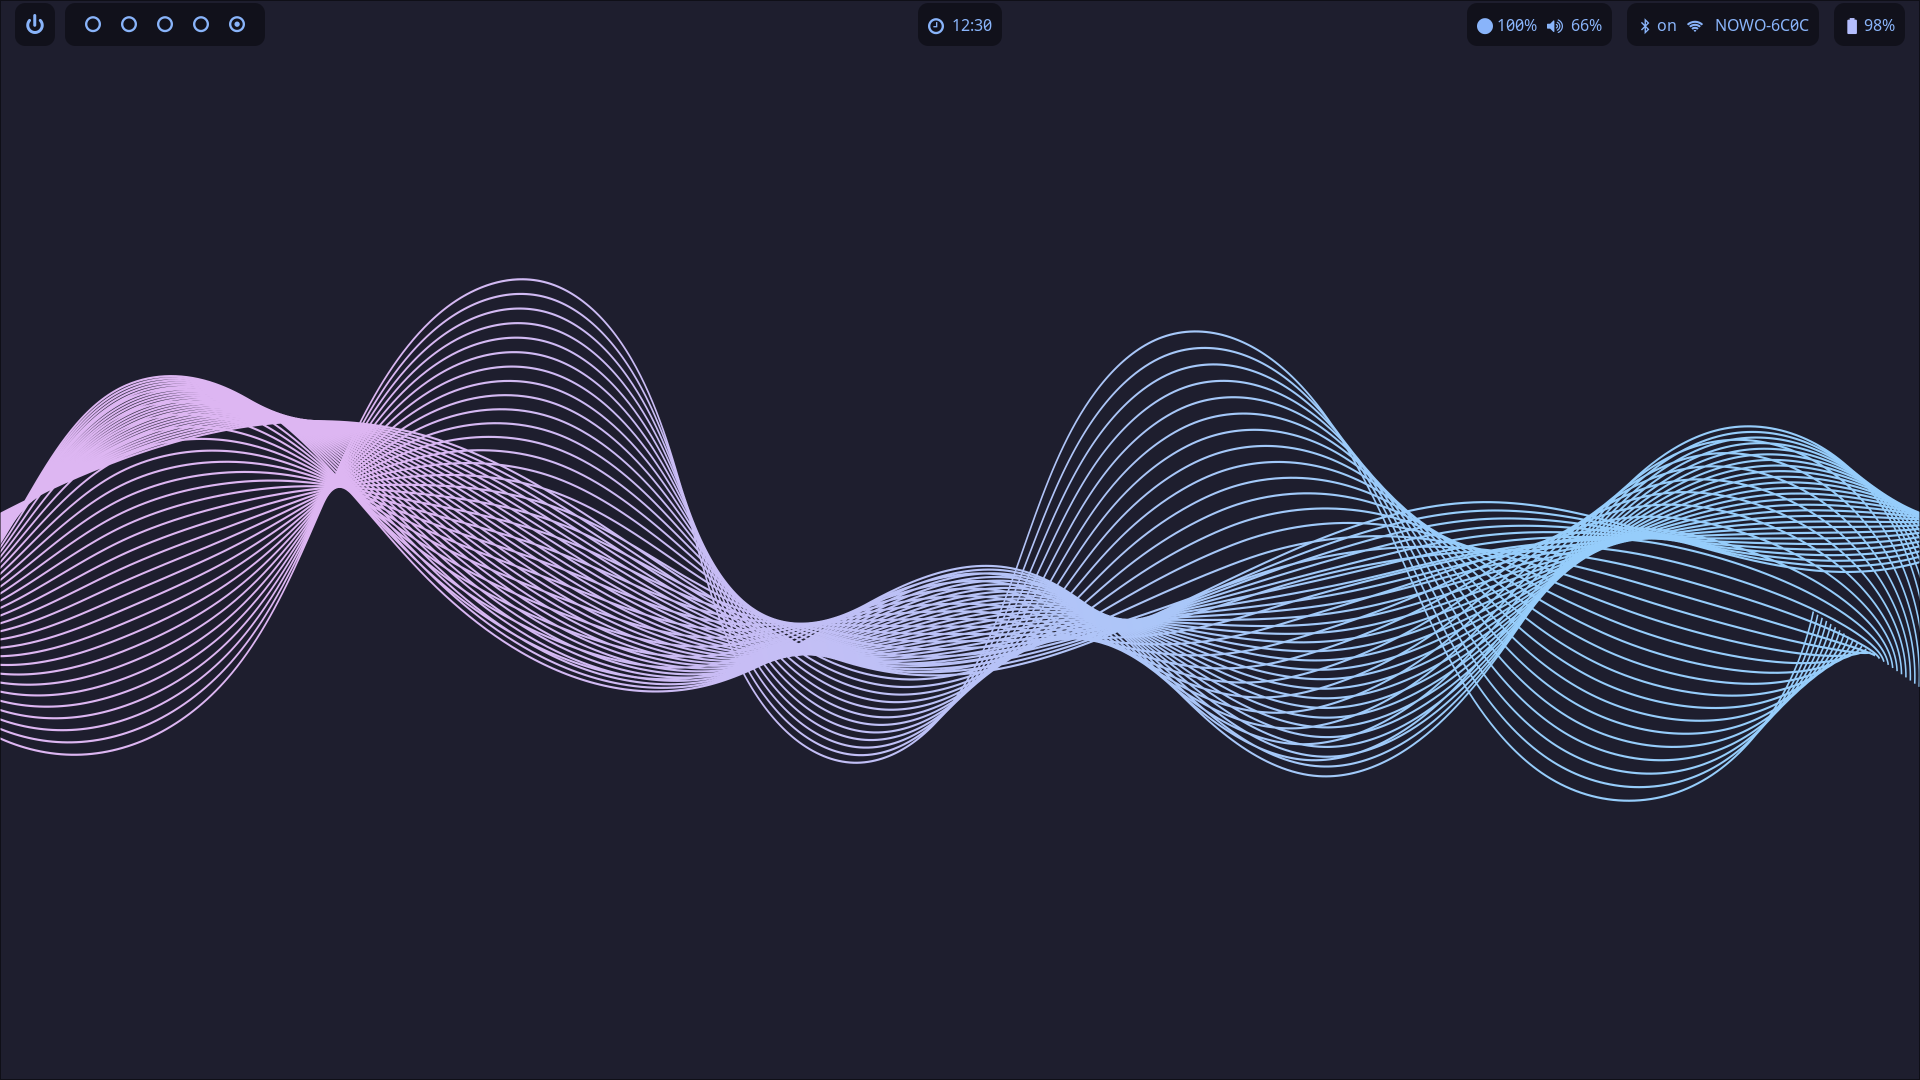
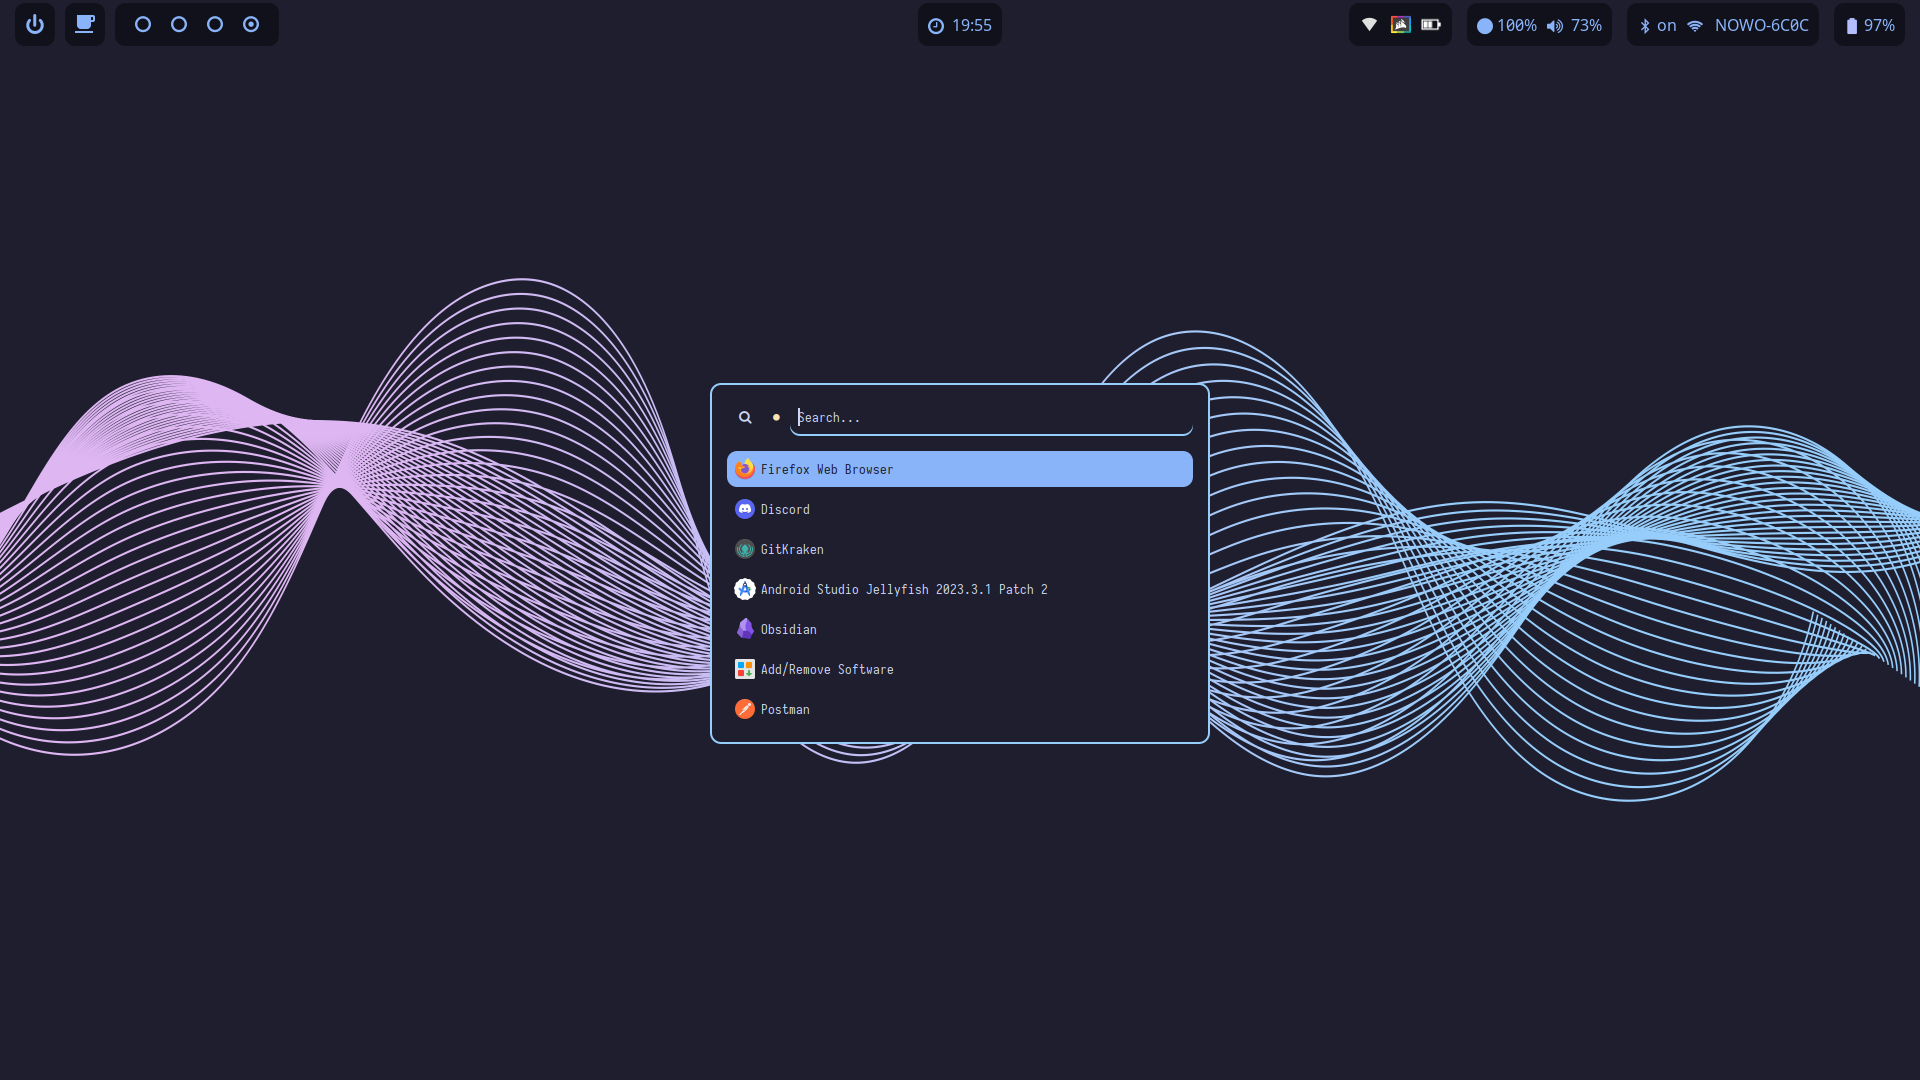
Updated description

Changed region(s): [[0.3438, 0.3361, 0.6562, 0.7028], [0.0312, 0.0, 0.125, 0.0306], [0.7188, 0.0, 0.75, 0.0306]]

diff --git a/README.md b/README.md
@@ -1,4 +1,9 @@
 # Dotfiles by RICKY
+
+Here you can find the dotfiles for my system.  
+They are not super organized, but it's what I use.  
+If you have any questions, feel free to message me on [LinkedIn](https://www.linkedin.com/in/-henriquesfernandes).
+
 📸 Screenshots  
 
 ![Desktop](images/desktop.png)
@@ -11,12 +16,17 @@
 - Terminal: [kitty](https://sw.kovidgoyal.net/kitty/)
 - Shell: [zsh](https://www.zsh.org/) with [ohmyzsh](https://ohmyz.sh/) and [powerlevel10k](https://github.com/romkatv/powerlevel10k)
 - GTK Theme: [catppuccin-mocha](https://github.com/catppuccin/gtk)
-- File Manager: [nautilus](https://apps.gnome.org/pt/Nautilus/)
+- File Manager: [thunar](https://docs.xfce.org/xfce/thunar/start)
 - System Information: [neofetch](https://github.com/dylanaraps/neofetch) / [bashtop](https://github.com/aristocratos/bashtop)
-- Top Bar: [waybar](https://github.com/Alexays/Waybar)
+- Top Bar: [waybar](https://github.com/Alexays/Waybar), the config is based on someone (unfortunately I don't remember who) with some modifications of my own (colors, tray, caffeine, powerbutton...)
 - Launcher: [rofi](https://github.com/davatorium/rofi)
 - Login Manager: [SDDM](https://github.com/sddm/sddm) with a modified version of [sugar candy](https://store.kde.org/p/1312658/)
-- Lock Screen: [swaylock-effects](https://github.com/mortie/swaylock-effects)
+- Lock Screen: [hyprlock](https://github.com/hyprwm/hyprlock)
 - Text Editors: [nvim](https://neovim.io/), [lvim](https://www.lunarvim.org/)
 - Notifications: [dunst](https://github.com/dunst-project/dunst)
 - Printscreen Manager: [hyprshot](https://github.com/Gustash/Hyprshot)
+- Color picker: [hyprpicker](https://github.com/hyprwm/hyprpicker)
+
+🛠 Installation Script
+
+Soon...
